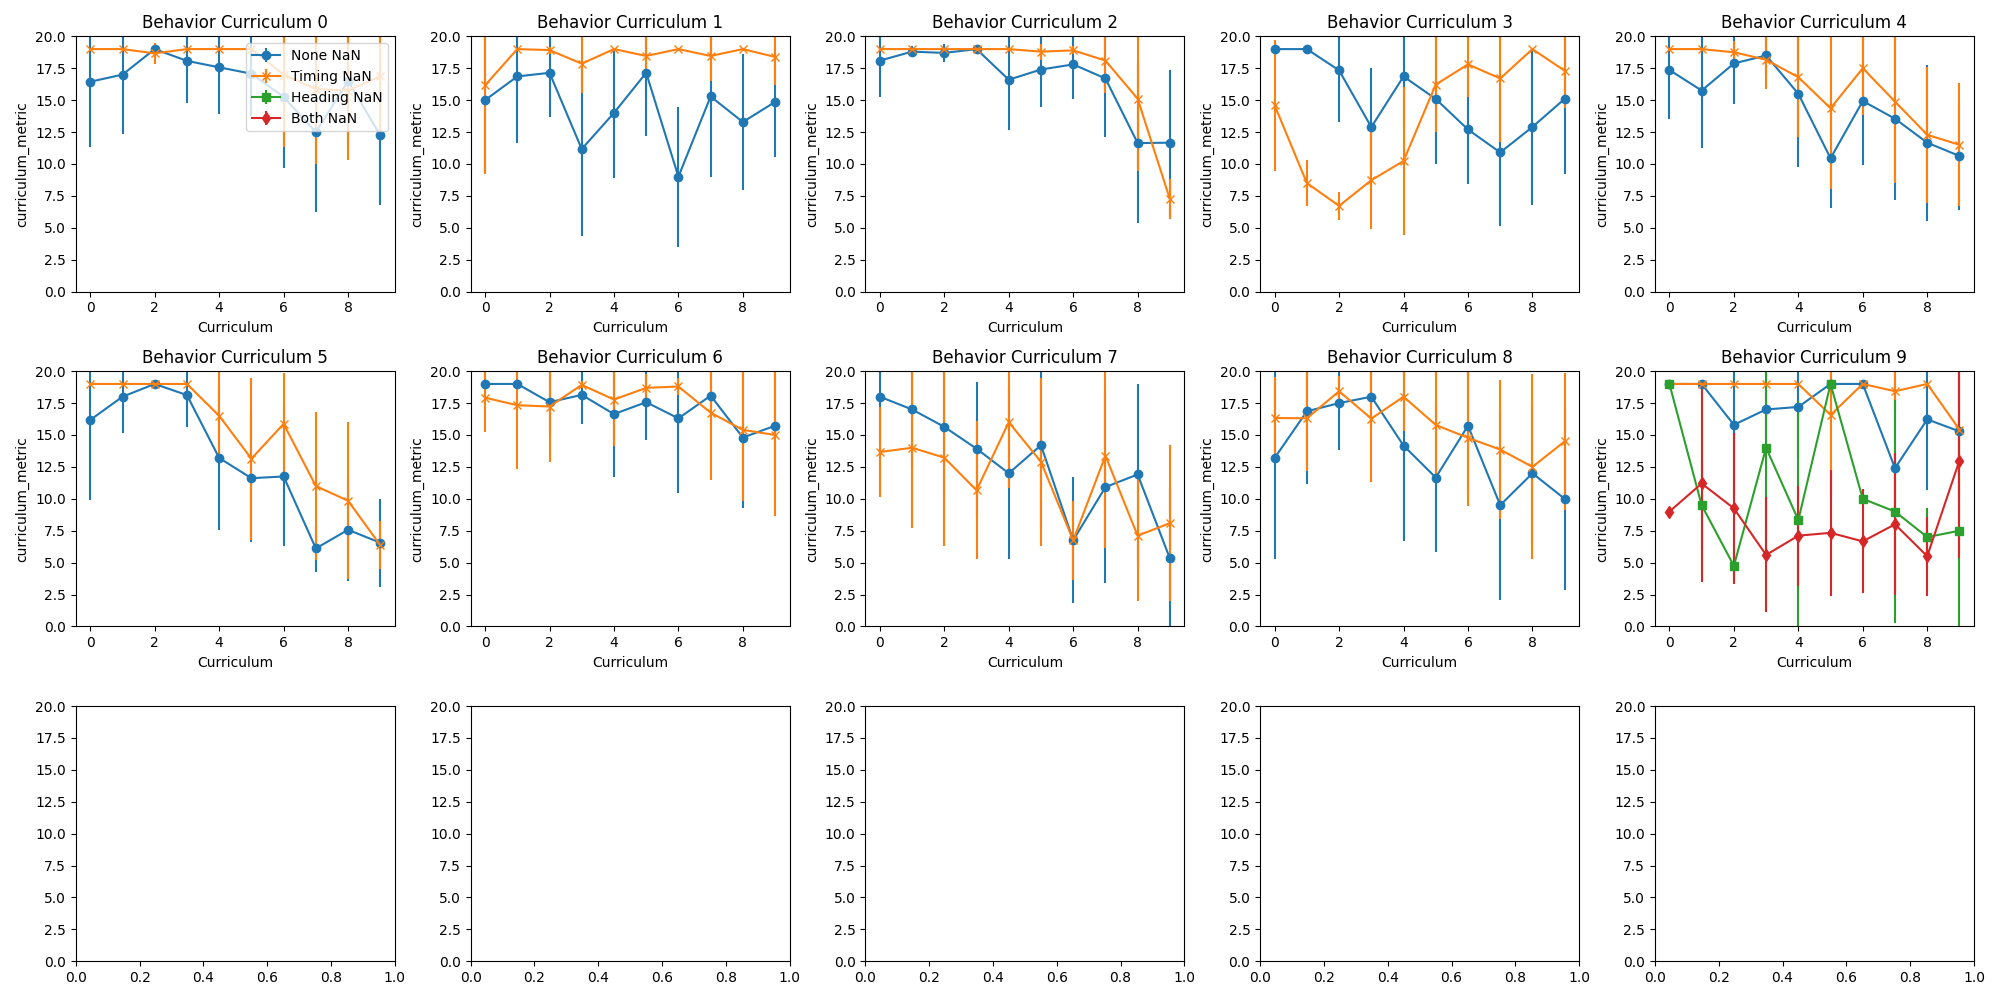
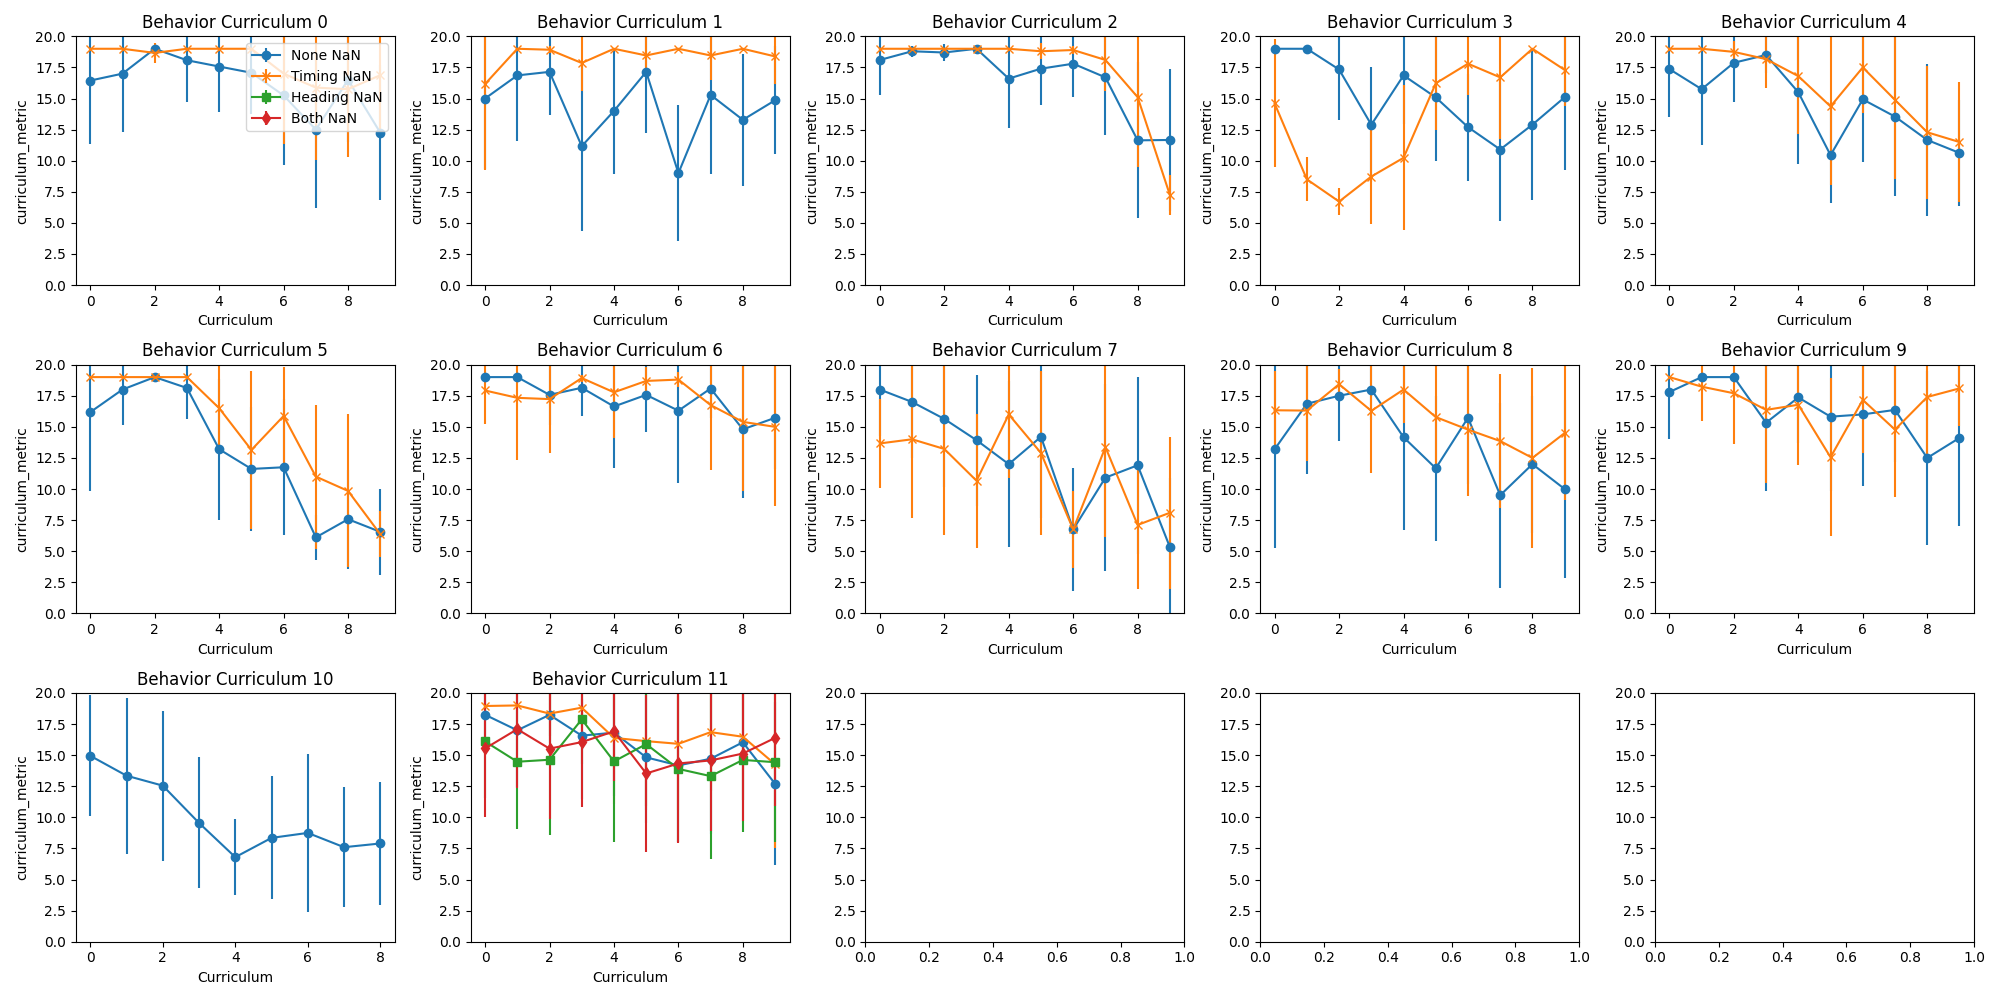
eval all

diff --git a/plot_eval_data.py b/plot_eval_data.py
@@ -6,7 +6,7 @@ import numpy as np
 column_to_plot = 'curriculum_metric'  # Change to 'timing_met', 'heading_err', 'dist_err', or 'curriculum_metric' as needed
 
 # Number of behavior curricula and curricula per behavior curriculum
-num_behavior_curricula = 10
+num_behavior_curricula = 12
 num_curricula = 10
 
 # Prepare subplots
@@ -28,6 +28,8 @@ for behavior_curriculum in range(num_behavior_curricula):
     means_both_nan = []
     stds_both_nan = []
     curricula = list(range(num_curricula))
+
+    curriculum_to_plot = []
 
     for curriculum in curricula:
         file = f"{folder}/data_{behavior_curriculum}_{curriculum}.csv"
@@ -70,16 +72,17 @@ for behavior_curriculum in range(num_behavior_curricula):
             all_means.append(mean_both_nan)
             all_stds.append(std_both_nan)
 
+            curriculum_to_plot.append(curriculum)
         except FileNotFoundError:
             print(f"File {file} not found. Skipping.")
             continue
 
     # Plot each subset on the same subplot for the current behavior curriculum
     ax = axes.flatten()[behavior_curriculum]
-    ax.errorbar(curricula, means_none_nan, yerr=stds_none_nan, fmt='-o', label='None NaN')
-    ax.errorbar(curricula, means_timing_nan, yerr=stds_timing_nan, fmt='-x', label='Timing NaN')
-    ax.errorbar(curricula, means_heading_nan, yerr=stds_heading_nan, fmt='-s', label='Heading NaN')
-    ax.errorbar(curricula, means_both_nan, yerr=stds_both_nan, fmt='-d', label='Both NaN')
+    ax.errorbar(curriculum_to_plot, means_none_nan, yerr=stds_none_nan, fmt='-o', label='None NaN')
+    ax.errorbar(curriculum_to_plot, means_timing_nan, yerr=stds_timing_nan, fmt='-x', label='Timing NaN')
+    ax.errorbar(curriculum_to_plot, means_heading_nan, yerr=stds_heading_nan, fmt='-s', label='Heading NaN')
+    ax.errorbar(curriculum_to_plot, means_both_nan, yerr=stds_both_nan, fmt='-d', label='Both NaN')
 
     ax.set_title(f"Behavior Curriculum {behavior_curriculum}")
     ax.set_xlabel("Curriculum")

diff --git a/mocca_envs/env_locomotion.py b/mocca_envs/env_locomotion.py
@@ -368,7 +368,7 @@ class Walker3DStepperEnv(EnvBase):
 
         self.mask_info = {
             "xy": [False, 0.5, False],
-            "heading": [False, 0.5, False],
+            "heading": [True, 0.5, False],
             "timing": [True, 0.5, False],
             "leg": [False, 0.5, False],
             "dir": [False, 0.5, True],
@@ -1733,7 +1733,7 @@ class Walker3DStepperEnv(EnvBase):
         if self.mask_info["timing"][0]:
             threshold = self.mask_info["timing"][1] # if (self.curriculum < 2 and self.behavior_curriculum == 0) else 0.4
             self.mask_info["timing"][2] = self.np_random.rand() < threshold
-        if self.mask_info["heading"][0] or self.behaviors[self.behavior_curriculum] == "combine_all":
+        if self.mask_info["heading"][0]: # or self.behaviors[self.behavior_curriculum] == "combine_all":
             self.mask_info["heading"][2] = self.np_random.rand() < self.mask_info["heading"][1]
 
         if self.selected_behavior in {"one_step_plant", "hopping"}:

diff --git a/playground/enjoy.py b/playground/enjoy.py
@@ -164,7 +164,7 @@ def main():
 
         done = False
 
-        max_resets = 20
+        max_resets = 100
 
         timing_mets = []
         heading_errs = []
